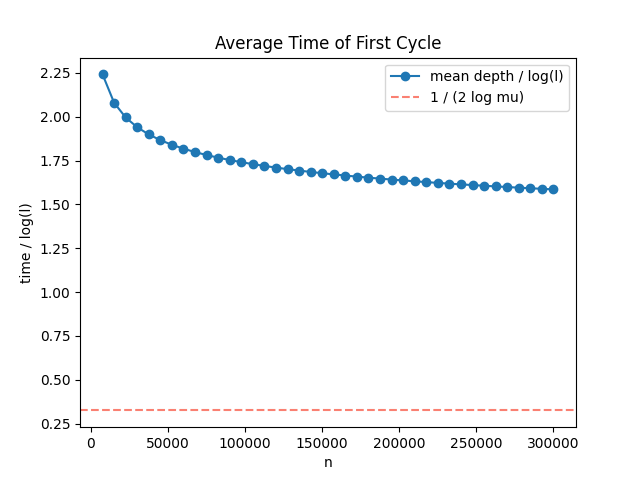
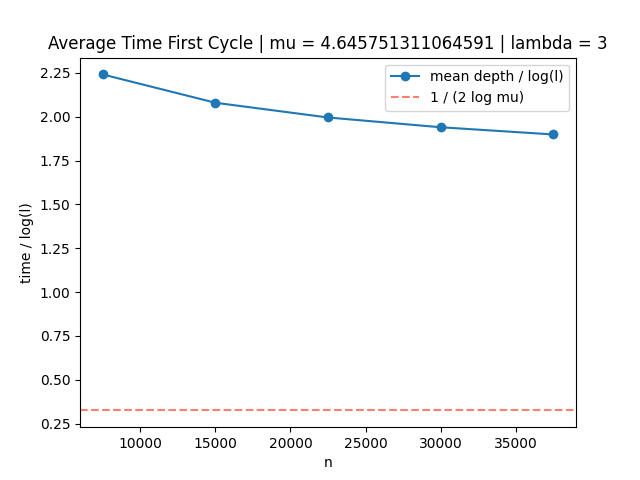
cleanup

diff --git a/ER_graph_BFS.py b/ER_graph_BFS.py
@@ -47,14 +47,15 @@ if __name__ == "__main__":
     
     lambda__ = 4                                                                     # new lambda var for alpha
     mu_ = (1 + lambda__ + math.sqrt((lambda__**2) + (6 * lambda__) + 1) ) /2         # eigenvalue of growth matrix
-    num_trials =  15                        # number trials
+    num_trials =  20                        # number trials
     count = 1
     num_ells = 45
+    n_ = 350000                             # 350,000 vertices
     with open(f"bfs_data_.csv", mode='w', newline='', encoding='utf-8') as file:
         writer = csv.writer(file)
-        writer.writerow(["n", "l", "time"])
+        writer.writerow(["n", "l", "time", "lambda"])
         for i in range(1, num_ells+1):
-            n_ = 7500 * (i)
+            
             l_i = (n_)**(1/10)
             p_i = lambda__/(2*l_i - 2)
             

diff --git a/script.py b/script.py
@@ -18,7 +18,7 @@ def main(mu_, lambda__):
     expected = 1 / (2 * math.log(mu_))
 
     plt.plot(ns, sample, 'o-', label='mean depth / log(l)')
-    plt.axhline(expected, color='salmon', linestyle='--', label='1 / (2 log mu)')
+    plt.axhline(expected, color='salmon', linestyle='--', label='log(l) / (2 log(mu))')
     plt.xlabel('n')
     plt.ylabel('time / log(l)')
     plt.title('Average Time First Cycle | mu = ' + str(mu_) + ' | lambda = ' + str(lambda__))
